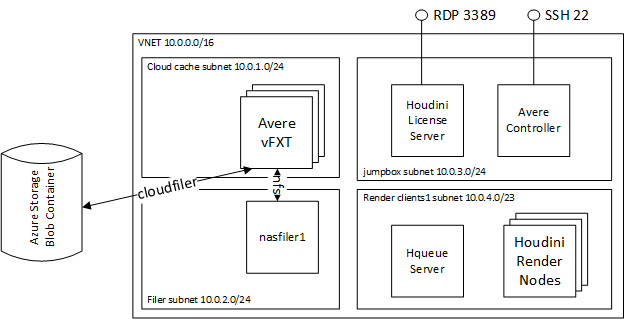
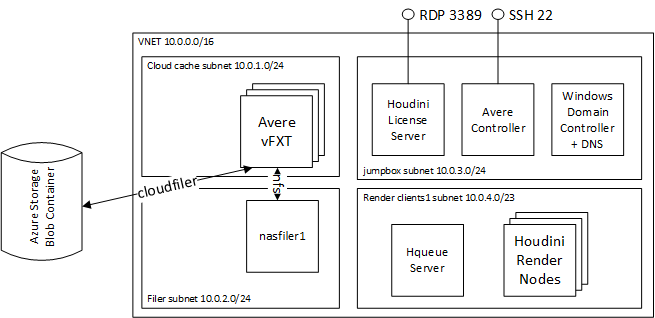
update houdini docs

Changed region(s): [[0.0912, 0.0283, 1.0, 1.0], [0.0, 0.5094, 0.1216, 0.8208], [0.0, 0.4245, 0.0912, 0.5094]]

diff --git a/src/terraform/examples/houdinienvironment/averecifs.md b/src/terraform/examples/houdinienvironment/averecifs.md
@@ -4,6 +4,8 @@ This page shows the steps to configure CIFS on Avere.
 
 All the steps below assume you have brought up the [vFXT Cluster GUI](https://docs.microsoft.com/en-us/azure/avere-vfxt/avere-vfxt-cluster-gui) in the browser.
 
+For more detailed setup information see the [Avere Active Directory Administrator Guide to Avere FXT Deployment](https://azure.github.io/Avere/legacy/pdf/ADAdminCIFSACLsGuide_20140716.pdf) and the [VServer>CIFS document](https://azure.github.io/Avere/legacy/ops_guide/4_6/html/gui_cifs.html).
+
 ## Configure DNS
 
 1. Browse to Settings->Administrative Network and configure the DNS server:
@@ -18,13 +20,13 @@ The following steps set the AD Domain for the directory services.
 
 1. Browse to Settings->Directory services
 
-1. Cick on `default` and add in the AD Domain (eg. rendering.com)
+1. Cick on `default` and add in the AD Domain (eg. rendering.com).  To find the domain, on a machine joined to the domain, browse to Administrative Tools->Active Directory Domains and Trusts, and this will show the domain name to use.
 
 ## Configure CIFS
 
 1. Browse to Settings->CIFS
 
-1. Click "Enable CIFS", and add username, password, and if required by your organization, organizational unit.
+1. Click "Enable CIFS", and add username, password, and if required by your organization, organizational unit.  
 
 
 ## Configure the coreFiler

diff --git a/src/terraform/examples/houdinienvironment/README.md b/src/terraform/examples/houdinienvironment/README.md
@@ -135,11 +135,11 @@ To configure Avere with CIFS, you will need to perform the following steps:
 
 ## Phase 2 Scaling: Step 4 - Render Nodes
 
-At this point you are now ready to deploy your custom images previously created.
+At this point you are now ready to deploy your custom images previously created.  Before running you can modify the powershell script located at `~/tf/src/terraform/examples/houdinienvironment/setupMachine.ps1`
 
 1. continuing from the previous steps, decide what you need to deploy:
     1. **HQueue or Windows Domain Controller images** - use the single vm image deployment by browsing to the vm directory `cd ~/tf/src/terraform/examples/houdinienvironment/4.rendernodes/vm`
-    1. **render nodes** - use the VMSS deployment by browsing to the vmss directory cd ~/tf/src/terraform/examples/houdinienvironment/4.rendernodes/vm`
+    1. **render nodes** - use the VMSS deployment by browsing to the vmss directory `cd ~/tf/src/terraform/examples/houdinienvironment/4.rendernodes/vmss`
 
 1. `code main.tf` to edit the local variables section at the top of the file, to customize to your preferences.  You will need to paste in the output values from the deployment of the storage, network, and cache steps.
 
